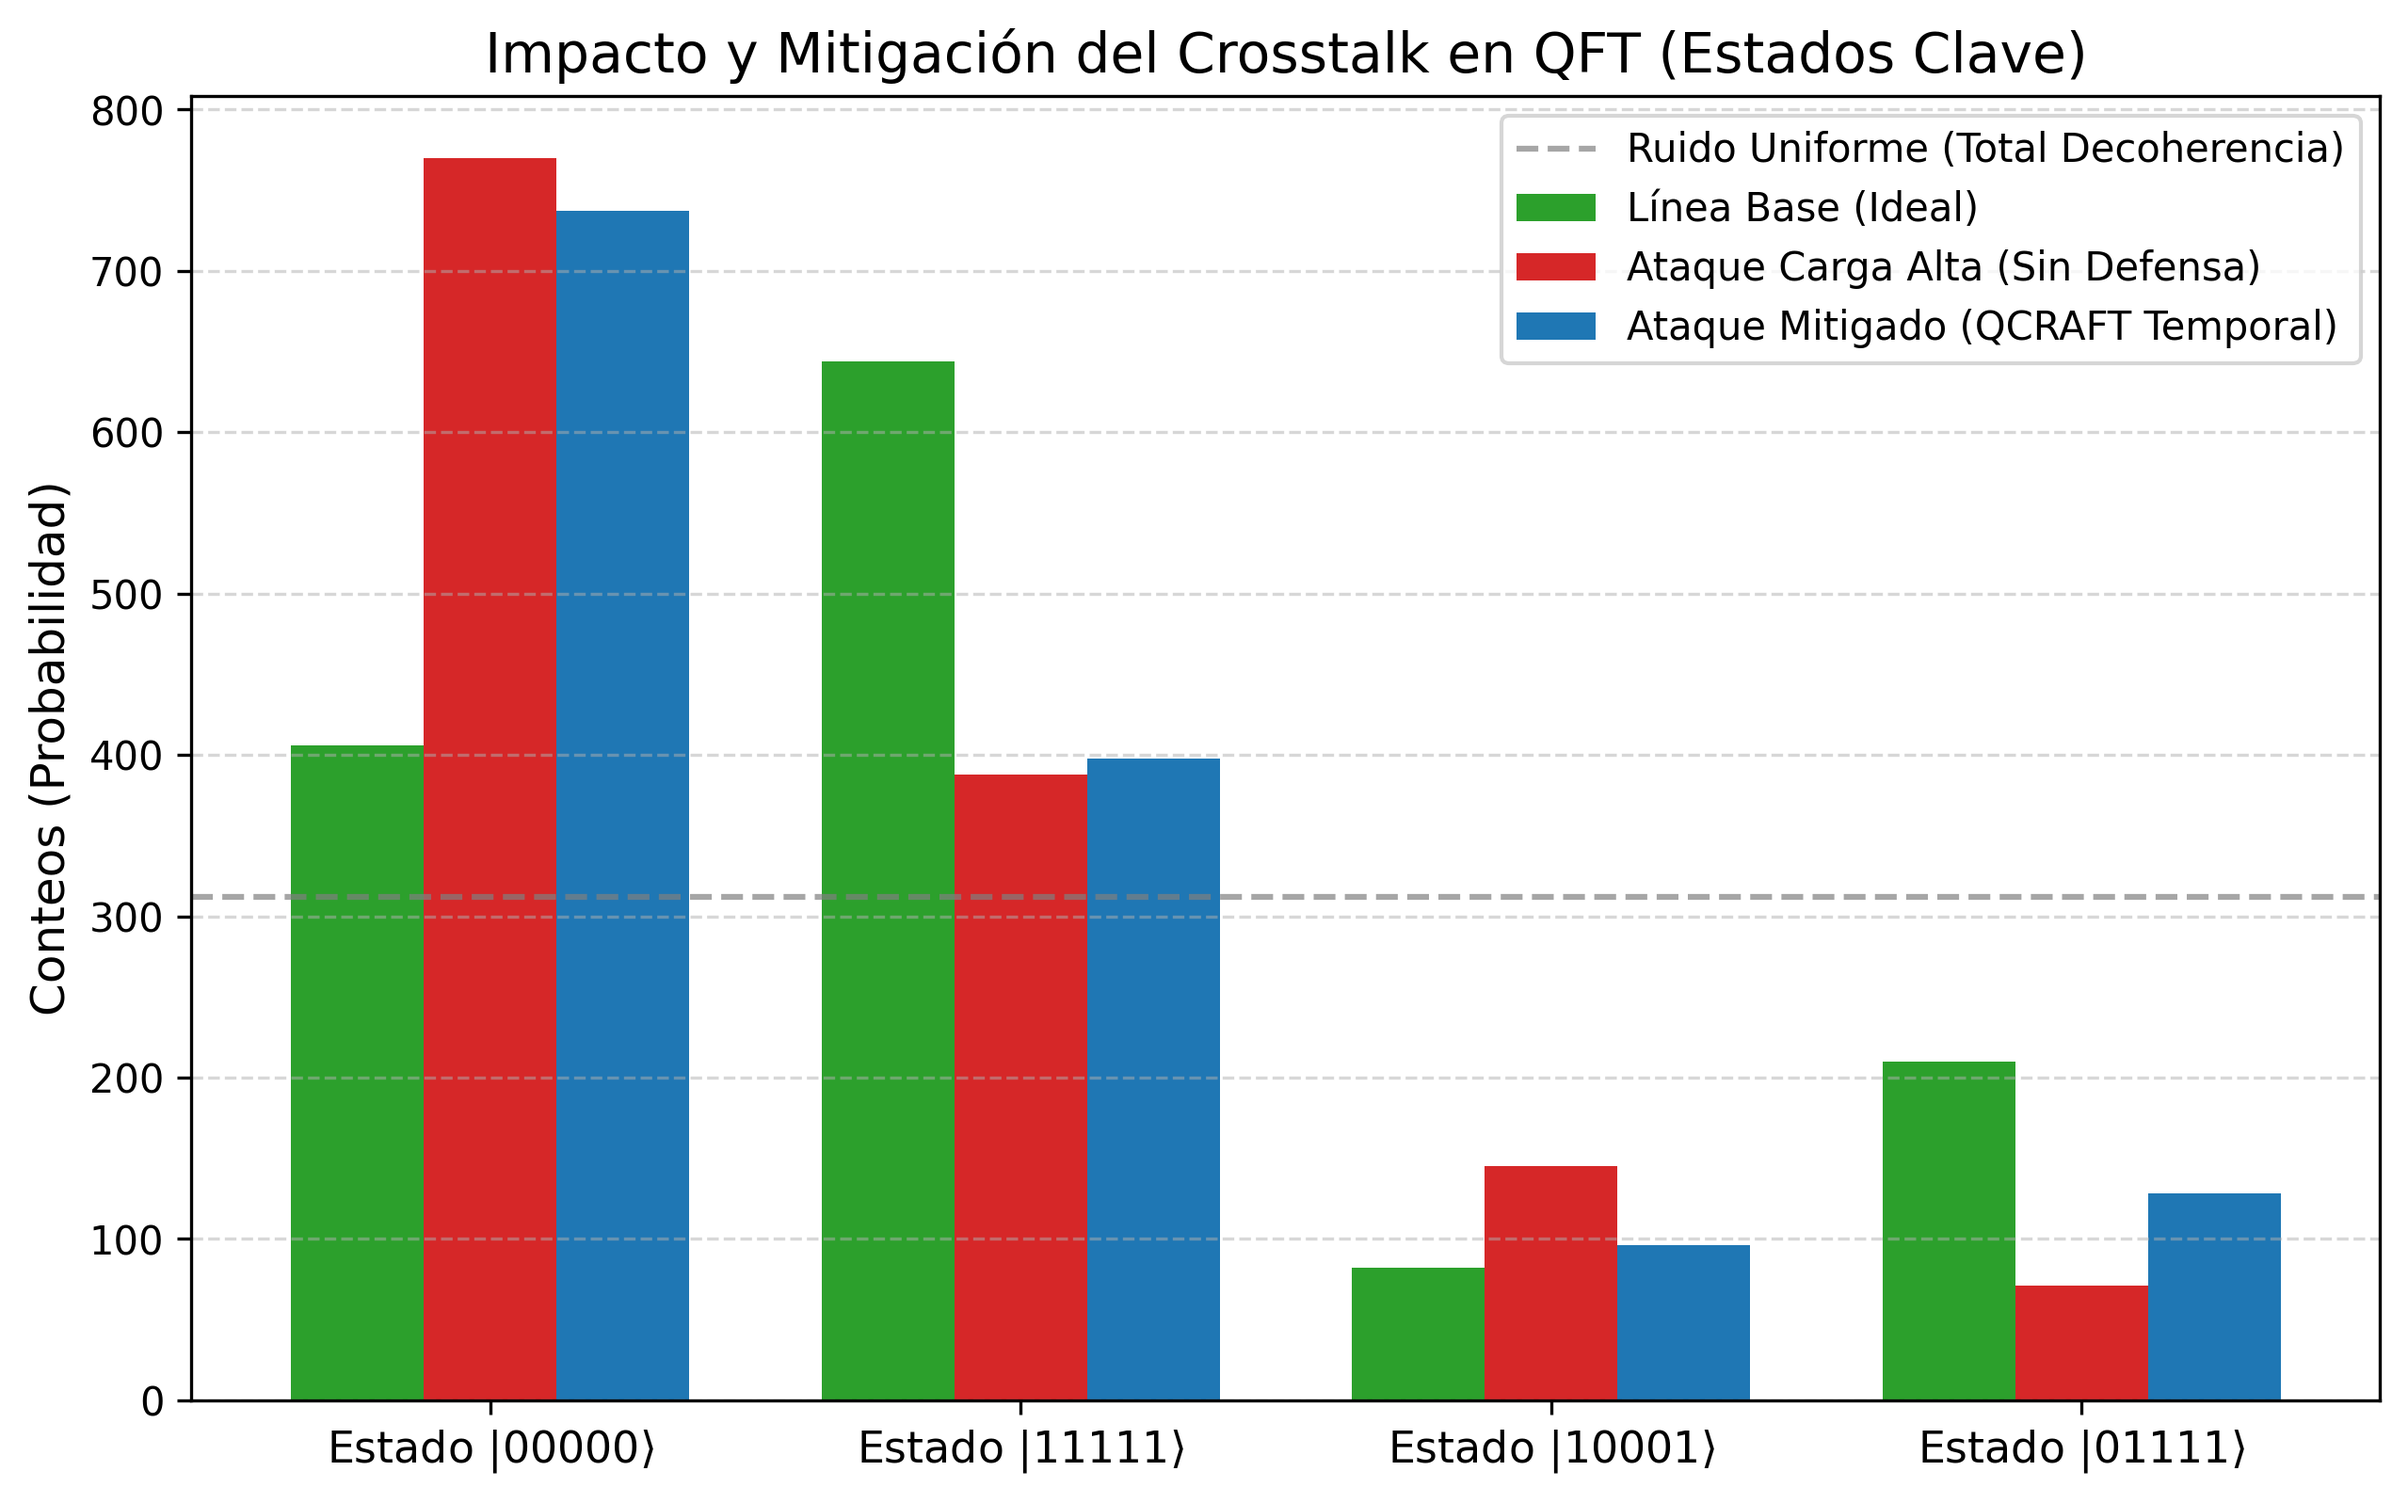
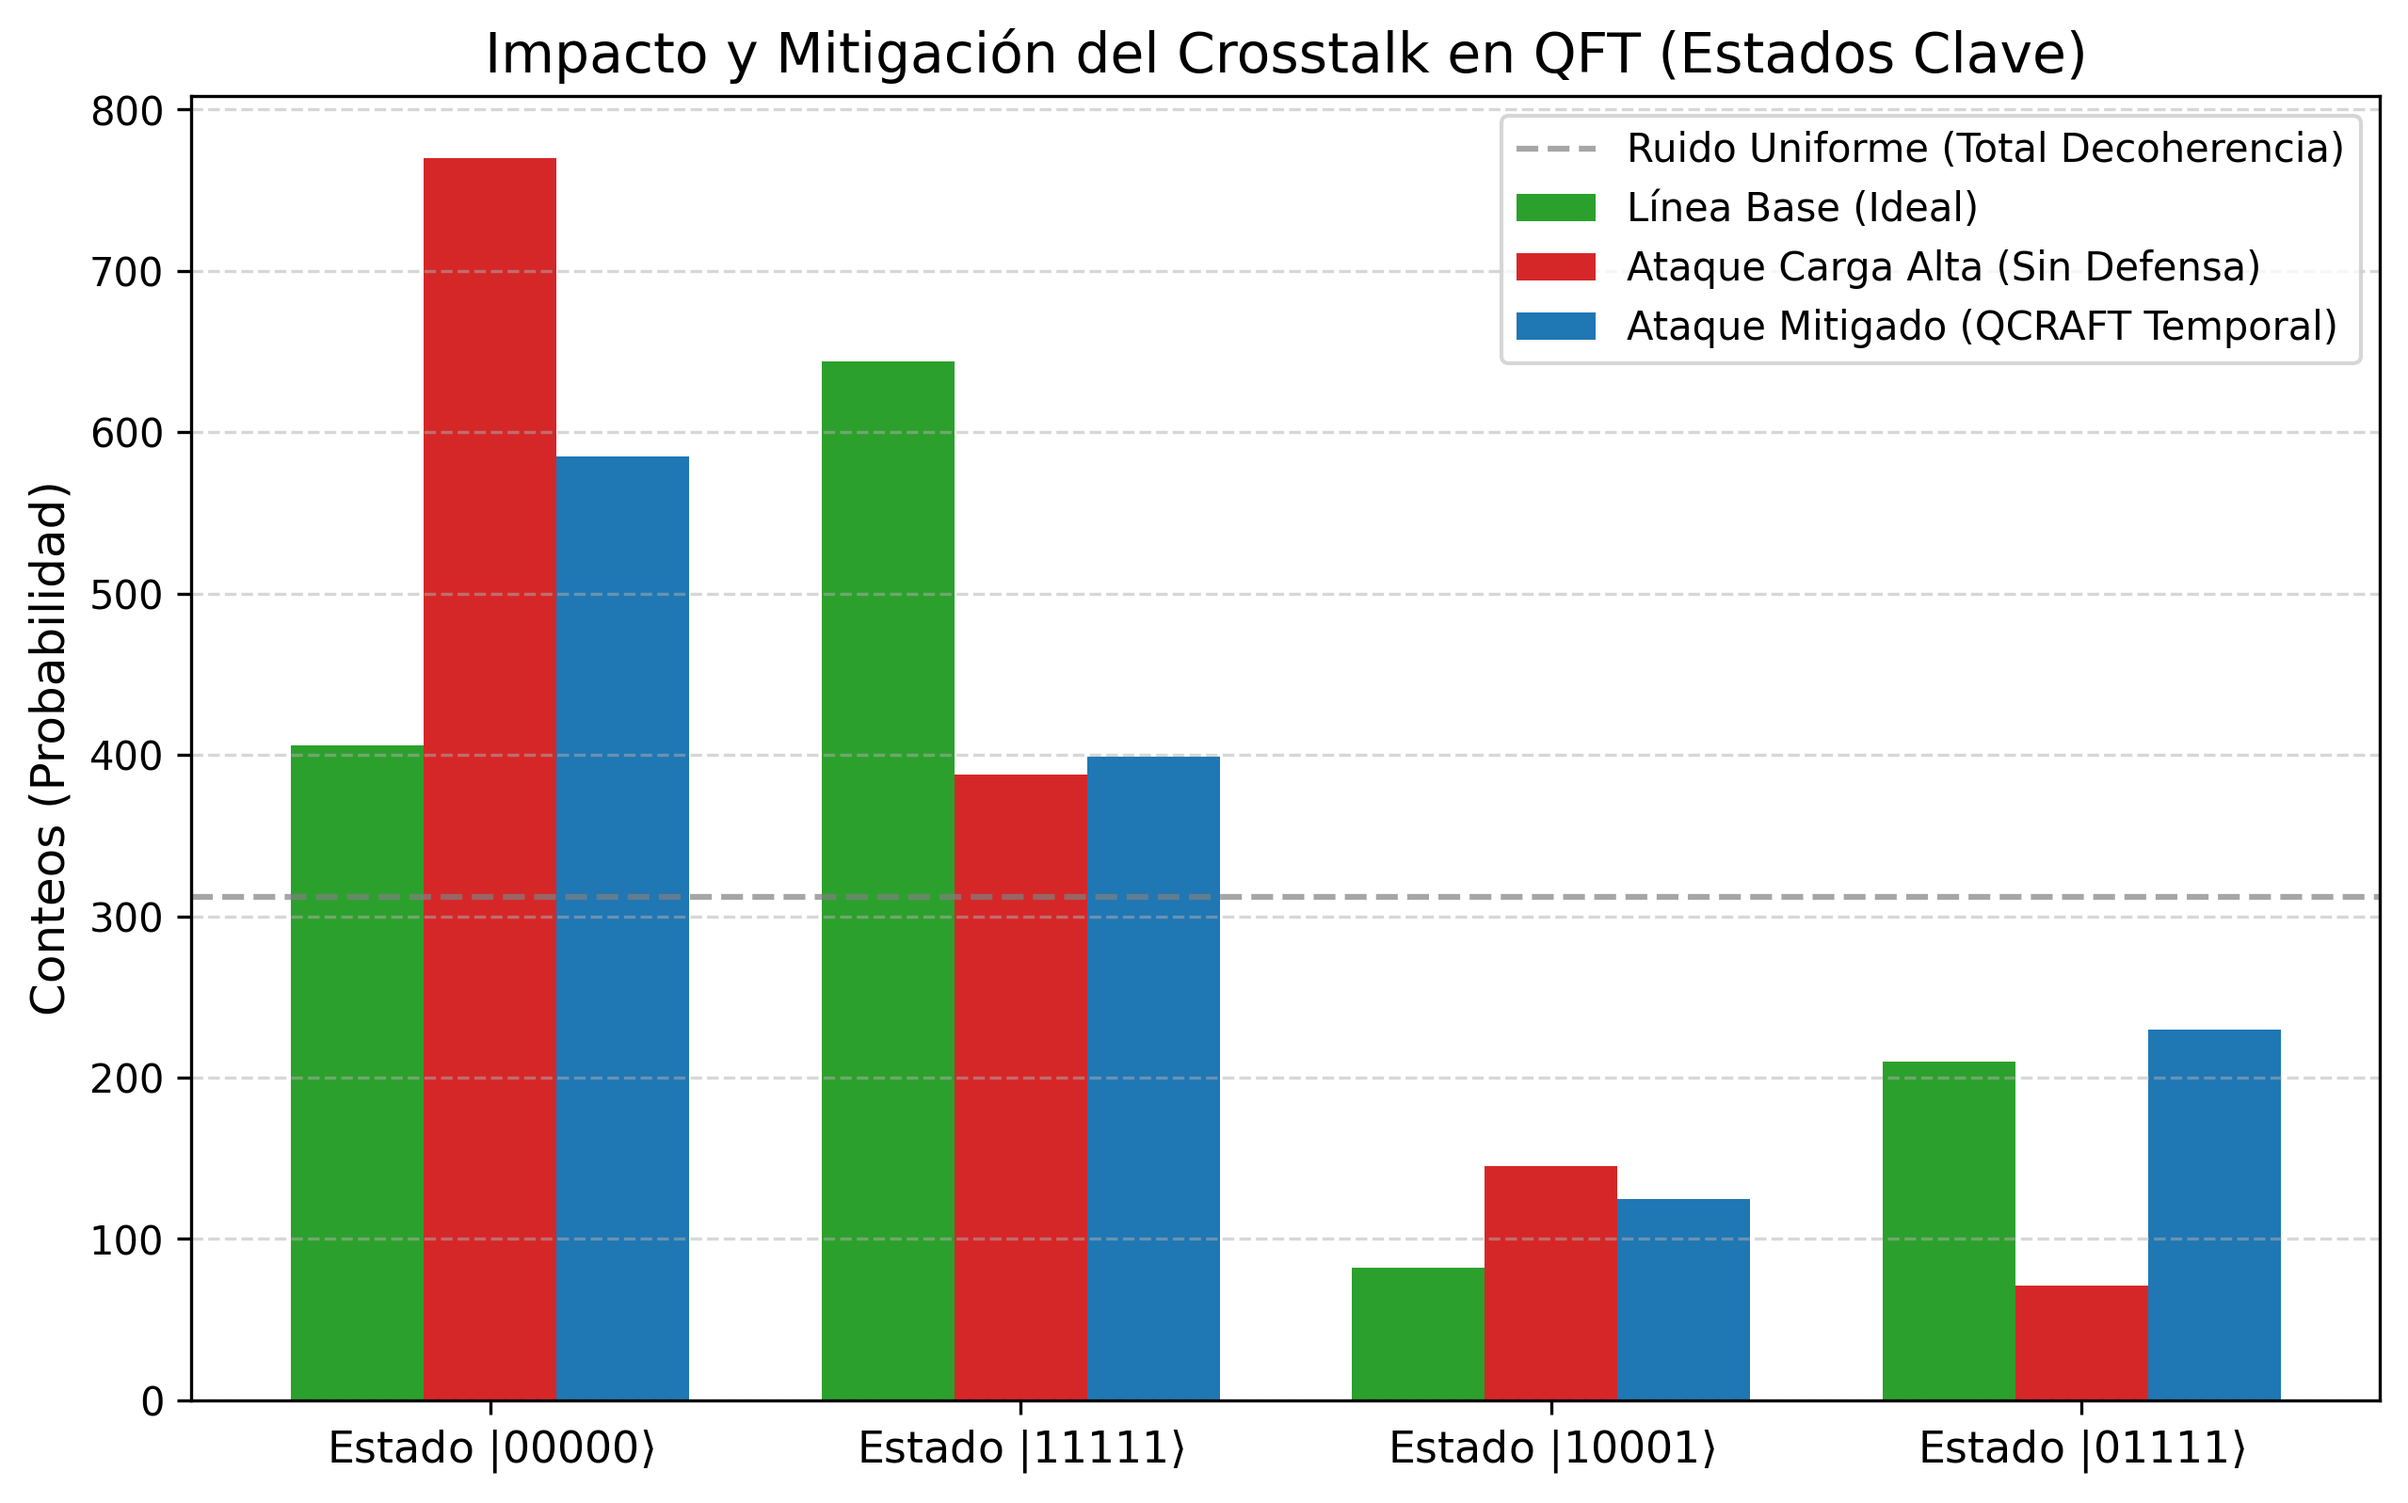
Desacoplamiento realizado

Changed region(s): [[0.2162, 0.1227, 0.3088, 0.3068], [0.8647, 0.675, 0.9574, 0.7977], [0.6486, 0.7977, 0.7412, 0.8284]]

diff --git a/QCRAFT-Scheduler/scheduler_policies.py b/QCRAFT-Scheduler/scheduler_policies.py
@@ -10,6 +10,9 @@ from typing import Callable
 import random
 from qiskit import QuantumCircuit
 from qiskit.compiler import transpile
+from qiskit.circuit.library import XGate
+from qiskit.transpiler import PassManager, InstructionDurations
+from qiskit.transpiler.passes import ALAPScheduleAnalysis, PadDynamicalDecoupling
 
 class Policy:
     """
@@ -159,6 +162,12 @@ class SchedulerPolicies:
                 if mitigation_policy == "randomized_compiling":
                     # Aplicar Pauli Twirling manual
                     circuit_obj = self.aplicar_twirling_qcraft(circuit_obj)
+                if mitigation_policy == "dynamic_decoupling" or mitigation_policy == "dd":
+                    # Aplicar Desacoplamiento Dinámico Activo
+                    try:
+                        circuit_obj = self.aplicar_dd_qcraft(circuit_obj, machine)
+                    except Exception as e:
+                        print(f"Warning applying dynamic decoupling: {e}")
             loc['circuit'] = circuit_obj
         else:
             loc['circuit'] = code_to_circuit_aws(circuit)
@@ -545,3 +554,27 @@ class SchedulerPolicies:
                 circuito_twirled.append(op, qubits, clbits)
                 
         return circuito_twirled
+
+    def aplicar_dd_qcraft(self, circuito_victima: 'QuantumCircuit', machine: str) -> 'QuantumCircuit':
+        """
+        Aplica Desacoplamiento Dinámico (DD) rellenando huecos con secuencias X-X.
+        """
+        if machine == 'local':
+            return circuito_victima
+
+        # Obtener el backend de IBM desde el ejecutor
+        try:
+            backend = self.executeCircuitIBM.obtain_machine(self.executeCircuitIBM.service, machine)
+        except Exception as e:
+            raise RuntimeError(f"Cannot obtain backend for DD: {e}")
+
+        # Obtener duraciones e insertar DD
+        durations = InstructionDurations.from_backend(backend)
+        dd_sequence = [XGate(), XGate()]
+        pm_dd = PassManager([
+            ALAPScheduleAnalysis(durations),
+            PadDynamicalDecoupling(durations, dd_sequence)
+        ])
+
+        circuito_protegido = pm_dd.run(circuito_victima)
+        return circuito_protegido

diff --git a/QCRAFT-Scheduler/Test/Maliciosos/Perfil1/Desacoplamiento/testDynamicDecoupling.py b/QCRAFT-Scheduler/Test/Maliciosos/Perfil1/Desacoplamiento/testDynamicDecoupling.py
@@ -1,0 +1,44 @@
+import aiohttp
+import asyncio
+
+url = 'http://localhost:8082/'
+pathCircuit = 'circuit'
+
+
+urls = {
+    "qft5": "https://raw.githubusercontent.com/Pitu6505/QCRAFT-Scheduler-Original/refs/heads/Comprobacion-de-Circuitos-Malware/CircuitosGenerados/Victima/Qft5Qu.py",
+    "CargaAlta": "https://raw.githubusercontent.com/Pitu6505/QCRAFT-Scheduler-Original/refs/heads/Comprobacion-de-Circuitos-Malware/CircuitosGenerados/Agresores/Perfil1/Carga_AltaP1.PY"
+}
+
+
+async def post_request(session, url, data):
+    async with session.post(url, json=data) as response:
+        return await response.text()
+
+
+async def main():
+    data_template = {
+        "url": "",
+        "shots": 10000,
+        "provider": ['ibm'],
+        "policy": "time",
+        "mitigation": ""
+    }
+
+    async with aiohttp.ClientSession() as session:
+        tasks = []
+        for name, url_value in urls.items():
+            data = data_template.copy()
+            data["url"] = url_value
+            # Solo habilitar DD para la víctima (qft5)
+            data["mitigation"] = "dynamic_decoupling" if name == "qft5" else ""
+            task = post_request(session, url + pathCircuit, data)
+            tasks.append(task)
+
+        responses = await asyncio.gather(*tasks)
+        for response in responses:
+            print(response)
+
+
+if __name__ == '__main__':
+    asyncio.run(main())

diff --git a/QCRAFT-Scheduler/Test/Maliciosos/Perfil2/Desacoplamiento/testDynamicDecoupling.py b/QCRAFT-Scheduler/Test/Maliciosos/Perfil2/Desacoplamiento/testDynamicDecoupling.py
@@ -1,0 +1,44 @@
+import aiohttp
+import asyncio
+
+url = 'http://localhost:8082/'
+pathCircuit = 'circuit'
+
+
+urls = {
+    "qft5": "https://raw.githubusercontent.com/Pitu6505/QCRAFT-Scheduler-Original/refs/heads/Comprobacion-de-Circuitos-Malware/CircuitosGenerados/Victima/Qft5Qu.py",
+    "CargaAlta": "https://raw.githubusercontent.com/Pitu6505/QCRAFT-Scheduler-Original/refs/heads/Comprobacion-de-Circuitos-Malware/CircuitosGenerados/Agresores/Perfil2/Carga_AltaP2.py"
+}
+
+
+async def post_request(session, url, data):
+    async with session.post(url, json=data) as response:
+        return await response.text()
+
+
+async def main():
+    data_template = {
+        "url": "",
+        "shots": 10000,
+        "provider": ['ibm'],
+        "policy": "time",
+        "mitigation": ""
+    }
+
+    async with aiohttp.ClientSession() as session:
+        tasks = []
+        for name, url_value in urls.items():
+            data = data_template.copy()
+            data["url"] = url_value
+            # Solo habilitar DD para la víctima (qft5)
+            data["mitigation"] = "dynamic_decoupling" if name == "qft5" else ""
+            task = post_request(session, url + pathCircuit, data)
+            tasks.append(task)
+
+        responses = await asyncio.gather(*tasks)
+        for response in responses:
+            print(response)
+
+
+if __name__ == '__main__':
+    asyncio.run(main())

diff --git a/QCRAFT-Scheduler/Test/Maliciosos/Perfil3/Desacoplamiento/testDynamicDecoupling.py b/QCRAFT-Scheduler/Test/Maliciosos/Perfil3/Desacoplamiento/testDynamicDecoupling.py
@@ -1,0 +1,44 @@
+import aiohttp
+import asyncio
+
+url = 'http://localhost:8082/'
+pathCircuit = 'circuit'
+
+
+urls = {
+    "qft5": "https://raw.githubusercontent.com/Pitu6505/QCRAFT-Scheduler-Original/refs/heads/Comprobacion-de-Circuitos-Malware/CircuitosGenerados/Victima/Qft5Qu.py",
+    "CargaAlta": "https://raw.githubusercontent.com/Pitu6505/QCRAFT-Scheduler-Original/refs/heads/Comprobacion-de-Circuitos-Malware/CircuitosGenerados/Agresores/Perfil3/Carga_AltaP3.py"
+}
+
+
+async def post_request(session, url, data):
+    async with session.post(url, json=data) as response:
+        return await response.text()
+
+
+async def main():
+    data_template = {
+        "url": "",
+        "shots": 10000,
+        "provider": ['ibm'],
+        "policy": "time",
+        "mitigation": ""
+    }
+
+    async with aiohttp.ClientSession() as session:
+        tasks = []
+        for name, url_value in urls.items():
+            data = data_template.copy()
+            data["url"] = url_value
+            # Solo habilitar DD para la víctima (qft5)
+            data["mitigation"] = "dynamic_decoupling" if name == "qft5" else ""
+            task = post_request(session, url + pathCircuit, data)
+            tasks.append(task)
+
+        responses = await asyncio.gather(*tasks)
+        for response in responses:
+            print(response)
+
+
+if __name__ == '__main__':
+    asyncio.run(main())

diff --git a/Resultados/Comparacion.py b/Resultados/Comparacion.py
@@ -50,7 +50,7 @@ def calcular_fidelidad_bhattacharyya(counts_ideal, counts_atacado, shots=10000):
 print("Cargando datos de los experimentos...")
 counts_base = cargar_conteos('Victima/qft.json')
 counts_ataque = cargar_conteos('Base/Perfil3/PerfilAlto3.json')
-counts_mitigado = cargar_conteos('AislamientoTemporal/Perfil3/PerfilAlto3Aislamiento.json')
+counts_mitigado = cargar_conteos('DesacoplamientoDinamico/Perfil3/PerfilAlto3Desa.json')
 
 
 # ==========================================
@@ -59,10 +59,10 @@ counts_mitigado = cargar_conteos('AislamientoTemporal/Perfil3/PerfilAlto3Aislami
 fid_ataque = calcular_fidelidad_bhattacharyya(counts_base, counts_ataque)
 fid_mitigado = calcular_fidelidad_bhattacharyya(counts_base, counts_mitigado)
 
-print("\n=== RESULTADOS DE MITIGACIÓN (AISLAMIENTO TEMPORAL) ===")
+print("\n=== RESULTADOS DE MITIGACIÓN (Desacoplamiento Dinámico) ===")
 print(f"Fidelidad Ideal (Línea Base) : 100.00%")
 print(f"Fidelidad bajo Ataque (Nivel 50): {fid_ataque * 100:.2f}%")
-print(f"Fidelidad con Firewall (Delay)  : {fid_mitigado * 100:.2f}%")
+print(f"Fidelidad con Desacoplamiento Dinámico  : {fid_mitigado * 100:.2f}%")
 print(f"-> ¡Recuperación de {(fid_mitigado - fid_ataque) * 100:.2f} puntos porcentuales!")
 
 # ==========================================
